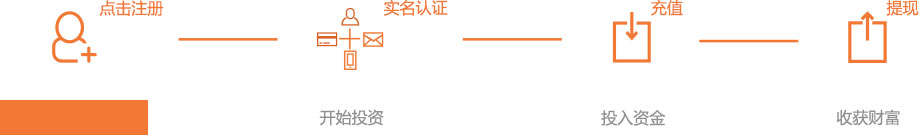
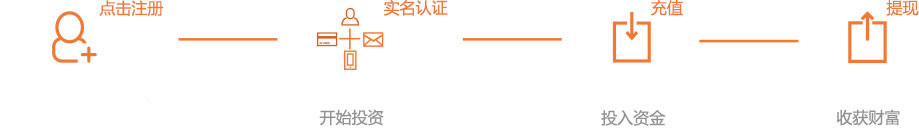
2期bug修改

Changed region(s): [[0.0, 0.7407, 0.1828, 1.0]]

diff --git a/static/css/base.css b/static/css/base.css
@@ -30,10 +30,18 @@ p input{height:28px;line-height:28px;padding: 0 5px;border:2px solid #b2b2b2;fon
 .border-box{border-left:4px solid #f27835;background: #fff;text-align: left;overflow: hidden;-moz-box-shadow:0px 2px 2px 0px #d3d3d3;-webkit-box-shadow:0px 2px 2px 0px #d3d3d3;box-shadow:0px 2px 2px 0px #d3d3d3;}
 .shadow-box{-moz-box-shadow:0px 1px 1px 1px #d3d3d3;-webkit-box-shadow:0px 1px 1px 1px #d3d3d3;box-shadow:0px 1px 1px 1px #d3d3d3;background: #fff;}
 .assure{display: inline-block;height:28px;width:22px;background: url(../img/assure.png) no-repeat;}
+.assurecont{position:absolute;top:-35px;right:0;}
+.assurecont .contword{position: relative;height:28px;width:173px;z-index:100;}
+.assurecont .contword .cont-bk{position: absolute;height:24px;top:0;left:0;background: #373737;filter:alpha(opacity=80);-moz-opacity:0.8;-khtml-opacity: 0.8;opacity: 0.8;width:100%;z-index: 101; }
+.assurecont .contword span{position: absolute;height: 4px;width: 12px;top:24px;right: 10px;background: url(/static/img/arrow4.png) no-repeat;z-index: 102;}
+.assurecont .contword p{font-size:12px;line-height: 24px;color:#fff;z-index: 102;position: absolute;top:0;left:0;width:100%;text-align: center;}
+
 .sub-link{background:url(../img/arrow.png) no-repeat right center;padding-right:16px;}
 button{cursor: pointer;}
 .light-btn{background: #f27835;color:#fff;text-align: center;}
+.light-btn:hover{background: #f06a21;}
 .gray-btn{background: #b5b5b5;color:#fff;text-align: center;}
+.gray-btn:hover{background: #a6a6a6;}
 .show{display: block !important;}
 .hide{display: none !important;}
 
@@ -42,7 +50,7 @@ h4.col-ti span{float:left;}
 h4.col-ti .ti-logo{padding:7px;background: #f27835;margin-top:5px;margin-right: 15px;}
 h4.col-ti a{color:#f27835;text-decoration: underline;font-size: 14px;}
 a.quit{background: url(../img/quit.png) no-repeat;height: 18px;width:18px;display: inline-block;}
-em.error-msg{font-size: 14px;color:#f15d2d;font-style: normal;margin-left:10px;}
+em.error-msg{font-size: 12px;color:#f15d2d;font-style: normal;margin-left:10px;}
 
 
 
@@ -69,39 +77,46 @@ em.error-msg{font-size: 14px;color:#f15d2d;font-style: normal;margin-left:10px;}
 
 
 /* * * * * * * * * * * * * * * * 登录区 * * * * * * * * * * * * * * * */
-.login-area{width:270px;height: 221px;float:right;margin-top:65px;background: #fff;padding:40px 15px 30px 15px;position: relative;}
-.login-area .textField{width:266px;border-top:2px solid;border-left:2px solid;border-right:2px solid;border-bottom:4px solid #e67334;margin-bottom:18px;padding:0;}
+.login-area{width:270px;height: 221px;float:right;margin-top:65px;background: #fff;padding:30px 15px;position: relative;}
+.login-area .textField{width:266px;border-top:2px solid;border-left:2px solid;border-right:2px solid;border-bottom:4px solid #e67334;margin:9px 0;padding:0;}
 .login-area .textField span{width:19px;height:17px;margin:0 10px;display: inline-block;vertical-align: middle;background: url(../img/profile.png) no-repeat;}
 .login-area .textField span.pwd{background:url(../img/lock.png) no-repeat;}
 .login-area .textField input{width:210px;height:36px;border:none;vertical-align:middle;line-height:38px;padding: 0 8px;margin:0;}
-.login-area p.remember{overflow: hidden;line-height: 28px;margin-bottom: 8px;font-size:12px;}
-.login-area p.remember input{vertical-align:middle;margin-right:8px;border:1px solid #f27835;}
+.login-area p.error{line-height: 15px;text-align: left;height: 15px;}
+.login-area p.error em{margin-left: 0;}
+.login-area p.remember{overflow: hidden;line-height: 20px;margin-bottom: 5px;font-size:12px;}
+.login-area p.remember input{vertical-align:middle;margin-right:8px;border:1px solid #f27835;line-height: 21px;height: 21px;}
 .login-area p.remember .fl{color:#373737;}
 .login-area p.remember .fr{color:#b1b1b1;}
 .login-area .btn_login{height:45px;line-height:45px;width:100%;margin-bottom:15px;background:#f27835;color:#fff;border:0;cursor:pointer;}
+.login-area .btn_login:hover{background: #f06a21}
 .login-area h5 a{text-decoration: underline;color:#b1b1b1;}
 .login-area .assure{position:absolute;top:0;right:5px;}
 
+
 /* * * * * * * * * * * * * * * * 尾部 * * * * * * * * * * * * * * * */
 .footer{background: #f9f7f7;}
-.footer .about .wmain .fr a, .footer .end p.cert a{background: url(../img/footer.png) no-repeat;display:inline-block;}
-.footer .about{padding-top: 30px;}
-.footer .about .wmain{height: 240px;}
-.footer .about .wmain h4{margin-bottom: 20px;}
+.footer .about .wmain .fr a, .footer .end p.cert a{background: url(/static/img/footer.png) no-repeat;display:inline-block;}
+.footer .about{padding-top: 25px;}
+.footer .about .wmain{height: 200px;}
+.footer .about .wmain h4{margin-bottom: 10px;}
 .footer .about .wmain .fl{text-align: left;}
-.footer .about .wmain .fl p{font-size: 12px;margin-bottom: 50px;line-height: 25px;}
+.footer .about .wmain .fl p{font-size: 12px;margin-bottom: 35px;line-height: 20px;}
 .footer .about .wmain .fl p a{margin-right: 65px;font-size: 14px;}
 .footer .about .wmain .fl p em{color:#f27835;}
 .footer .about .wmain .fr{width:136px;}
-.footer .about .wmain .fr a{height:42px;width: 136px;margin-bottom: 20px;}
+.footer .about .wmain .fr a{height:36px;width: 117px;margin-bottom: 10px;}
+.footer .about .wmain .fr a.app1:hover{background-position: 0 -90px}
 .footer .about .wmain .fr a.app2{background-position: 0 -45px;}
+.footer .about .wmain .fr a.app2:hover{background-position: 0 -135px;}
+
 .footer .about .wmain .fr p{font-size: 12px;margin-top: 5px;}
-.footer .end{background: #f2f1f1;padding:50px;text-align: left;}
+.footer .end{background: #f2f1f1;padding: 40px;text-align: left;}
 .footer .end p{font-size: 12px;}
-.footer .end p.cert{margin-top: 25px;}
-.footer .end p.cert a{width:85px;height:31px;background-position: 0 -90px;}
-.footer .end p.cert a{background-position: 0 -90px;}
-.footer .end p.cert a.cert2{background-position: 0 -125px;margin-left: 10px;}
+.footer .end p.cert{margin-top: 18px;}
+.footer .end p.cert a{width:73px;height:27px;background-position: 0 -90px;}
+.footer .end p.cert a{background-position: 0 -180px;}
+.footer .end p.cert a.cert2{background-position: 0 -215px;margin-left: 10px;}
 
 
 /* * * * * * * * * * * * * * * * 侧边栏 * * * * * * * * * * * * * * * */
@@ -163,16 +178,18 @@ em.error-msg{font-size: 14px;color:#f15d2d;font-style: normal;margin-left:10px;}
 .horizon .back-area .text-area2{background-position: 0 -115px;}
 .horizon .back-area .text-area3{background-position: 0 -230px;}
 
-.horizon .front-area{height:98px;width:861px;padding:15px 0 0 100px;position: absolute;z-index:3;bottom:0;right:0;background:#fff;border:1px solid #d3d3d3;display: none;}
+.horizon .front-area{height:98px;width:861px;padding:15px 0 0 100px;position: absolute;z-index:3;bottom:0;right:0;background:#fff;border:1px solid #d3d3d3;}
 .horizon .front-area div{float:left;width:215px;}
 .horizon .front-area div p.num{color:#f27835;font-size:24px;margin:10px 0;}
 .horizon .front-area div p.subti{font-size:12px;}
 .horizon .front-area .operate{padding-top:25px;}
 .horizon .front-area .operate button{background: #f27835;color:#fff;width:137px;height:33px;cursor:pointer;}
+.horizon .front-area .operate button:hover{background: #f06a21;}
 .horizon .front-area .operate p{font-size: 12px;margin-top:12px;}
 .horizon .front-area .operate p em{color:#f27835;}
 .horizon .front-area .assure{position: absolute;top:0;right:10px;}
-
+.horizon .front-area div.assurecont, .horizon .front-area div.assurecont div{width: 173px;}
+.horizon .front-area div.assurecont span{right:15px;}
 /* 右侧 */
 .fr-main .horizon{height:100px;}
 .fr-main .horizon .back-area{height: 87px;width: 820px;}
@@ -191,6 +208,7 @@ em.error-msg{font-size: 14px;color:#f15d2d;font-style: normal;margin-left:10px;}
 .fr-main .horizon .front-area .operate{padding-top:20px;}
 .fr-main .horizon .front-area .operate button{width:104px;height:26px;font-size: 12px;}
 .fr-main .horizon .front-area .operate p{font-size: 10px;margin-top:8px;}
+.fr-main .horizon .front-area div.assurecont, .horizon .front-area div.assurecont div{width: 173px;}
 
 /* 显示隐藏*/
 .show{display:block;}

diff --git a/static/html/index.html b/static/html/index.html
@@ -36,6 +36,7 @@
 					<div class="textField">
 						<span class="pwd"></span><input name="userPsw" id="userPass" type="password" placeholder="登录密码">
 					</div>
+					<p class="error"><em class="error-msg">错误提示</em></p>
 					<p class="remember">
 						<input name="" value="1" id="" type="checkbox" class="fl"><span class="fl">记住登录</span><a href="#" class="fr">忘记密码?</a>
 					</p>
@@ -45,6 +46,13 @@
 					<div id="js-pp" style="display: none;"></div>
 				</form>
 				<span class="assure"></span>
+				<div class="assurecont">
+					<div class="contword">
+						<p>账户资金安全由中国人保承保</p>
+						<div class="cont-bk"></div>
+						<span></span>
+					</div>				
+				</div>
 			</div>
 		</div>
 	</div>
@@ -100,9 +108,15 @@
 				</div>
 				<div class="operate">
 					<button>立即购买</button>
-					<p>剩余金额：<em>9600000</em></p>
 				</div>
 				<span class="assure"></span>
+				<div class="assurecont">
+					<div class="contword">
+						<p>账户资金安全由中国人保承保</p>
+						<div class="cont-bk"></div>
+						<span></span>
+					</div>				
+				</div>
 			</div>
 		</div>
 		<div class="horizon">
@@ -131,6 +145,13 @@
 					<button>立即购买</button>
 				</div>
 				<span class="assure"></span>
+				<div class="assurecont">
+					<div class="contword">
+						<p>账户资金安全由中国人保承保</p>
+						<div class="cont-bk"></div>
+						<span></span>
+					</div>				
+				</div>
 			</div>
 			<div class="front-area">
 				<div class="explain1">
@@ -150,6 +171,13 @@
 					<button>立即购买</button>
 				</div>
 				<span class="assure"></span>
+				<div class="assurecont">
+					<div class="contword">
+						<p>账户资金安全由中国人保承保</p>
+						<div class="cont-bk"></div>
+						<span></span>
+					</div>				
+				</div>
 			</div>
 			<div class="front-area">
 				<div class="explain1">
@@ -169,6 +197,13 @@
 					<button>立即购买</button>
 				</div>
 				<span class="assure"></span>
+				<div class="assurecont">
+					<div class="contword">
+						<p>账户资金安全由中国人保承保</p>
+						<div class="cont-bk"></div>
+						<span></span>
+					</div>				
+				</div>
 			</div>
 		</div>
 		<div class="horizon">
@@ -195,9 +230,15 @@
 				</div>
 				<div class="operate">
 					<button>立即购买</button>
-					<p>剩余金额：<em>9600000</em></p>
 				</div>
 				<span class="assure"></span>
+				<div class="assurecont">
+					<div class="contword">
+						<p>账户资金安全由中国人保承保</p>
+						<div class="cont-bk"></div>
+						<span></span>
+					</div>				
+				</div>
 			</div>
 		</div>
 		<div class="media-report">

diff --git a/static/html/my/personCenter.html b/static/html/my/personCenter.html
@@ -75,9 +75,15 @@
 							</div>
 							<div class="operate">
 								<button>立即购买</button>
-								<p>剩余金额：<em>9600000</em></p>
 							</div>
 							<span class="assure"></span>
+							<div class="assurecont">
+								<div class="contword">
+									<p>账户资金安全由中国人保承保</p>
+									<div class="cont-bk"></div>
+									<span></span>
+								</div>				
+							</div>
 						</div>
 					</div>
 					<div class="horizon">
@@ -106,44 +112,13 @@
 								<button>立即购买</button>
 							</div>
 							<span class="assure"></span>
-						</div>
-						<div class="front-area">
-							<div class="explain1">
-								<p class="ti">年化收益率</p>
-								<p class="num">9%</p>
+							<div class="assurecont">
+								<div class="contword">
+									<p>账户资金安全由中国人保承保</p>
+									<div class="cont-bk"></div>
+									<span></span>
+								</div>				
 							</div>
-							<div class="explain2">
-								<p class="ti">持有期</p>
-								<p class="num">90天</p>
-								<p class="subti">90日后一次性还本付息</p>
-							</div>
-							<div class="explain3">
-								<p class="ti">起投金额</p>
-								<p class="num">100元</p>
-							</div>
-							<div class="operate">
-								<button>立即购买</button>
-							</div>
-							<span class="assure"></span>
-						</div>
-						<div class="front-area">
-							<div class="explain1">
-								<p class="ti">年化收益率</p>
-								<p class="num">10%</p>
-							</div>
-							<div class="explain2">
-								<p class="ti">持有期</p>
-								<p class="num">90天</p>
-								<p class="subti">90日后一次性还本付息</p>
-							</div>
-							<div class="explain3">
-								<p class="ti">起投金额</p>
-								<p class="num">100元</p>
-							</div>
-							<div class="operate">
-								<button>立即购买</button>
-							</div>
-							<span class="assure"></span>
 						</div>
 					</div>
 					<div class="horizon">
@@ -170,13 +145,18 @@
 							</div>
 							<div class="operate">
 								<button>立即购买</button>
-								<p>剩余金额：<em>9600000</em></p>
 							</div>
 							<span class="assure"></span>
+							<div class="assurecont">
+								<div class="contword">
+									<p>账户资金安全由中国人保承保</p>
+									<div class="cont-bk"></div>
+									<span></span>
+								</div>				
+							</div>
 						</div>
 					</div>
 				</div>
-			
 			</div>	
 		</div>
 	</div>

diff --git a/static/html/login/login.html b/static/html/login/login.html
@@ -20,6 +20,7 @@
 				<div class="textField">
 					<span class="pwd"></span><input name="userPsw" id="userPass" type="password" placeholder="登录密码">
 				</div>
+				<p class="error"><em class="error-msg">错误提示</em></p>
 				<p class="remember">
 					<input name="" value="1" id="" type="checkbox" class="fl"><span class="fl">记住登录</span><a href="#" class="fr">忘记密码?</a>
 				</p>
@@ -29,6 +30,13 @@
 				<div id="js-pp" style="display: none;"></div>
 			</form>
 			<span class="assure"></span>
+			<div class="assurecont">
+				<div class="contword">
+					<p>账户资金安全由中国人保承保</p>
+					<div class="cont-bk"></div>
+					<span></span>
+				</div>				
+			</div>
 		</div>
 	</div>
 </div>

diff --git a/static/css/zcdl.css b/static/css/zcdl.css
@@ -2,7 +2,7 @@
 /* CSS Document */
 .header{position:absolute;top:0;left:0;right: 0;z-index:1;}
 .login-page{height: 100%;vertical-align: middle;}
-.login-page .wmain{position:relative;height: 100%;z-index:2;}
+.login-page .wmain{position:relative;height: 100%;z-index:2;overflow: visible;}
 .login-page .ver-middle{position: absolute;top: 48%;margin-top: -161px;left:0;height: 322px;width:100%;background: url(/static/img/banner-login.jpg) no-repeat left center;text-align: right;z-index: 3;}
 .login-page .cont{width:100%;height:322px;width:100%;background:#fff;margin-top:74px;}
 .login-area{margin-top:1px;margin-right: 2px;padding:50px 25px 40px 25px;}

diff --git a/static/css/xszy.css b/static/css/xszy.css
@@ -11,5 +11,5 @@
 .newGuide .our-product a:hover{text-decoration: none;}
 
 .newGuide .invest-step{background: url(../img/invest-step.jpg) no-repeat center center;width: 1010px;height:135px;position:relative;margin:55px 0;}
-.newGuide .invest-step a{color:#fff;display: inline-block;position: absolute;bottom:0;left: 46px;padding: 7px 42px;}
-.newGuide .invest-step a:hover{text-decoration: none;}
+.newGuide .invest-step a{color:#fff;display: inline-block;position: absolute;bottom:0;left: 46px;padding: 7px 42px;background: #f27835}
+.newGuide .invest-step a:hover{text-decoration: none;background: #f06a21}

diff --git a/static/css/index.css b/static/css/index.css
@@ -9,7 +9,7 @@
 .banner .ul_btn li{float:left;height:16px;width:16px;margin:0px 2px; background:url(../img/li_1.png) no-repeat; cursor:pointer;}
 .banner .ul_btn .hover{ background:url(../img/li_2.png) no-repeat; display:block;}
 .banner .ad_bk .ul_btn a {width: 21px;height: 21px;float: left;text-indent: -4000px;position: relative;margin-left: 3px;color: transparent;}
-.banner .wmain{position: absolute;top: 0;left: 50%;margin-left: -570px;}
+.banner .wmain{position: absolute;top: 0;left: 50%;margin-left: -570px;overflow: visible;}
 
 
 /* 媒体区 */

diff --git a/static/html/common/footer.html b/static/html/common/footer.html
@@ -17,7 +17,7 @@
 			<div class="fr">
 				<a href="#" class="app1"></a>
 				<a href="#" class="app2"></a>
-				<img src="/static/img/erwei.jpg" width="80" alt="二维码">
+				<img src="/static/img/erwei.jpg" width="68" alt="二维码">
 				<p>关注微信</p>
 			</div>
 		</div>

diff --git a/static/html/my/refund/withdrawCash.html b/static/html/my/refund/withdrawCash.html
@@ -28,7 +28,6 @@
 								<span></span>
 							</div>
 						</div>
-						<a href="#" class="bank-add"></a>
 					</div>
 					<p class="sub-text">单笔限额20万，单日限额200万。<br>实际请参考您的银行限额设置。</p>
 				</div>
